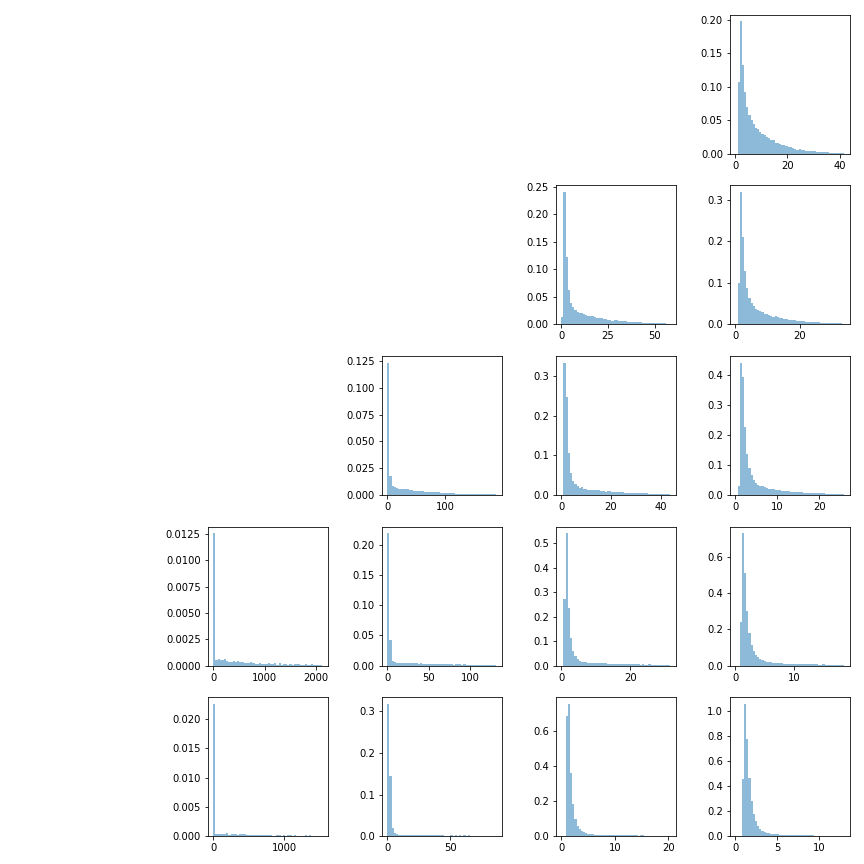
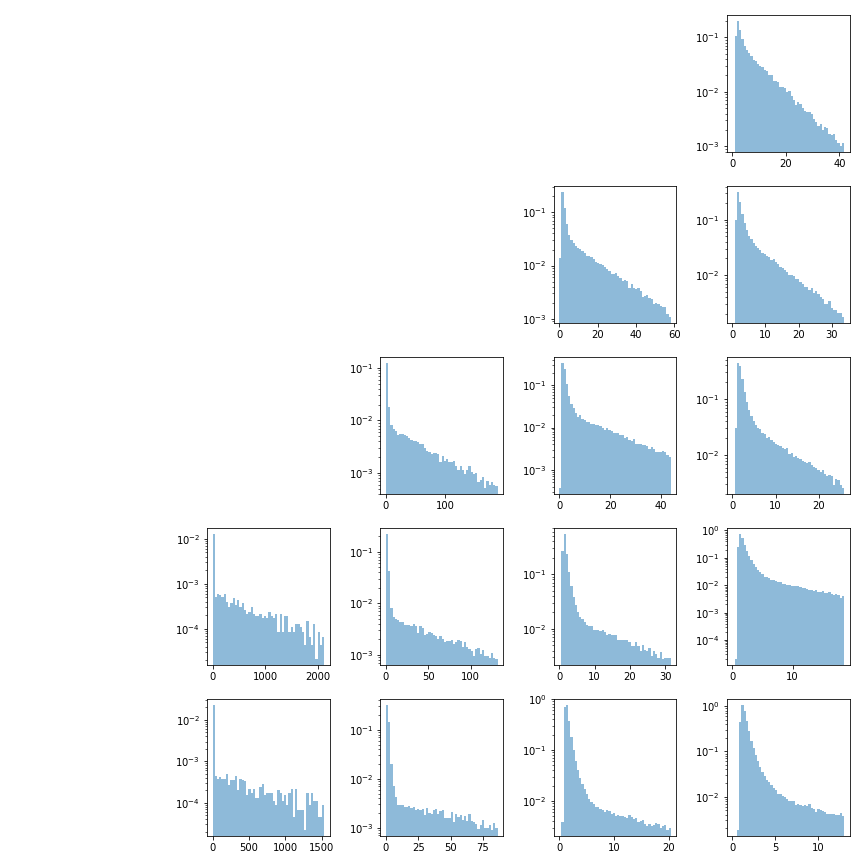
local changes

diff --git a/ratio.py b/ratio.py
@@ -4,13 +4,7 @@ import matplotlib.pyplot as plt
 from mpl_toolkits.mplot3d import Axes3D
 plt.rcParams['figure.figsize'] = 9, 6
 
-tau_n = .153*ms
-Iapp = 1* uA #/cm**2
-I_noise = 2.5*uA
 duration = 50000*ms
-
-v0=-30*mV
-n0=.05
 
 fig = plt.figure()
 ax = fig.gca(projection='3d')
@@ -21,21 +15,25 @@ ax.set_xticks([.155, .1575,.16,.1625, .165])
 ax.set_yticks([1.2,2.3,3.2,3.9,4.3,4.51])
 ax.view_init(10,180)
 
-for tau_n in [ .155, .1575,.16,.1625, .165]*ms:
-    for Iapp in [1.2,2.3,3.2,3.9,4.3,4.51]*uA:
-        for duration in [10000,50000]*ms:
+I_noises = [2,2.5,3]*uA
 
-            file_name=str(tau_n)+'  '+str(Iapp)+'  ('+str(v0)+', '+str(n0)+')  '+str(duration/second)+' s  '+str(I_noise)
-#            print(file_name)
+for I_noise in I_noises:
+    for tau_n in [ .155, .1575,.16,.1625, .165]*ms:
+        for Iapp in [1.2,2.3,3.2,3.9,4.3]*uA:
             
-            try:     
-                data = get_simulation(file_name)
-                ISIs = [ISI for neuron in data['ISI'] for ISI in neuron ]
-                ISI_quiet = [ISI for neuron in data['ISI_quiet'] for ISI in neuron ]
-                ratio = len(ISI_quiet)/len(ISIs)
-                print(tau_n/ms,Iapp/uA, ratio)    
-                ax.scatter(tau_n/ms,Iapp/uA, ratio)
+    
+                file_name=str(duration/second)+' s  '+str(I_noise)+' '+str(tau_n)+'  '+str(Iapp)+' '+str(number)
+    #            print(file_name)
                 
-            
-            except IOError:
-                pass
+                try:     
+                    data = get_simulation(file_name)
+                    ISIs = [ISI for neuron in data['ISI'] for ISI in neuron ]
+                    ISI_quiet = [ISI for neuron in data['ISI_quiet'] for ISI in neuron ]
+                    ratio = len(ISI_quiet)/len(ISIs)
+                    print(tau_n/ms,Iapp/uA, ratio)    
+                    ax.scatter(tau_n/ms,Iapp/uA, ratio)
+                    
+                
+                except IOError:
+                    print('1')
+                    pass

diff --git a/plot_hists_segments.py b/plot_hists_segments.py
@@ -1,7 +1,7 @@
 from brian2 import *
 from Neuron import *
 
-def plot_all_histograms(name):
+def plot_all_histograms(name, log=False):
     plt.rcParams['figure.figsize'] = 12, 12  
 
     tau_ns = [ .155, .1575,.16,.1625, .165]*ms
@@ -44,16 +44,15 @@ def plot_all_histograms(name):
                     ax.xlim = ((0,5*mean))
                     for key in keys:
                         flat_intervals = np.array([interval for neuron in intervals[key] for interval in neuron])
-                        ax.hist(flat_intervals*1000, normed = True, bins = 50,  alpha = .5, range = ((0,5*mean)), log = False, label = key)
+                        ax.hist(flat_intervals*1000, normed = True, bins = 50,  alpha = .5, range = ((0,5*mean)), log = log, label = key)
                         
                 except IOError:
                     ax.axis('off')
                     pass
                 
-        ax = fig.add_subplot(5,5,1)
-        plt.legend(loc = 2)
+        plt.legend()
         plt.tight_layout()
         
         plt.savefig('pictures_report/'+name+' '+str(I_noise)+'.png')
         
-plot_all_histograms('quiet_and_burst')
+plot_all_histograms('quiet_and_burst', log = False)
